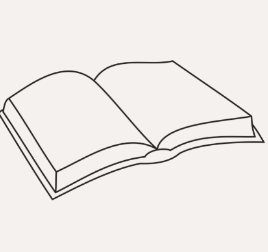
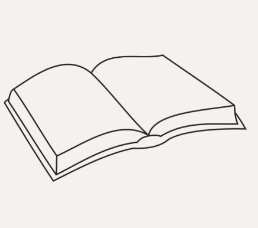
quick fixes

diff --git a/app/(tabs)/myshelf.tsx b/app/(tabs)/myshelf.tsx
@@ -99,7 +99,12 @@ function Gallery() {
           <Text style={styles.galleryItemButtonText}>Currently reading</Text>
         </Button>
         <Image
-          style={{ width: 150, height: 150, marginLeft: 20 }}
+          style={{
+            width: 150,
+            height: 150,
+            marginLeft: 20,
+          }}
+          contentFit="contain"
           source={require("./../../assets/images/currently_reading.png")}
         />
       </View>
@@ -108,6 +113,7 @@ function Gallery() {
           <Text style={styles.galleryItemButtonText}>Completed books</Text>
         </Button>
         <Image
+          contentFit="contain"
           style={{ width: 150, height: 150, marginLeft: 20 }}
           source={require("./../../assets/images/completed.png")}
         />
@@ -117,6 +123,7 @@ function Gallery() {
           <Text style={styles.galleryItemButtonText}>Books to read</Text>
         </Button>
         <Image
+          contentFit="contain"
           style={{ width: 150, height: 150, marginLeft: 20 }}
           source={require("./../../assets/images/to_read.png")}
         />

diff --git a/app/(tabs)/index.tsx b/app/(tabs)/index.tsx
@@ -80,7 +80,11 @@ function HomepageContainers() {
               <Text style={styles.text}>{item.title}</Text>
             </View>
             <View style={styles.imagecontainer}>
-              <Image source={item.image} style={styles.image} />
+              <Image
+                source={item.image}
+                style={styles.image}
+                contentFit="cover"
+              />
             </View>
           </TouchableOpacity>
         </View>
